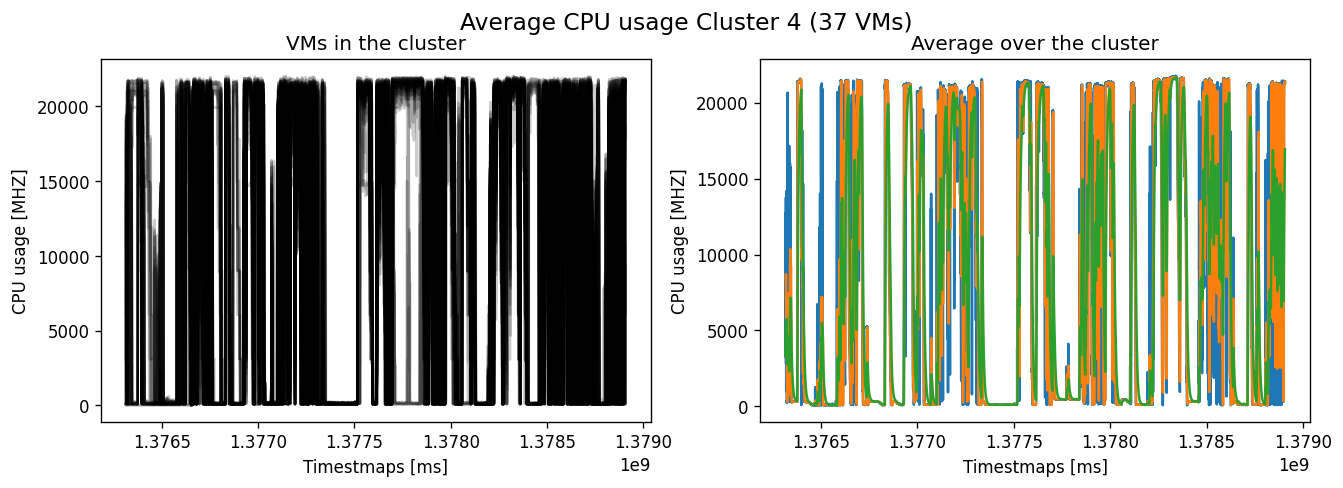
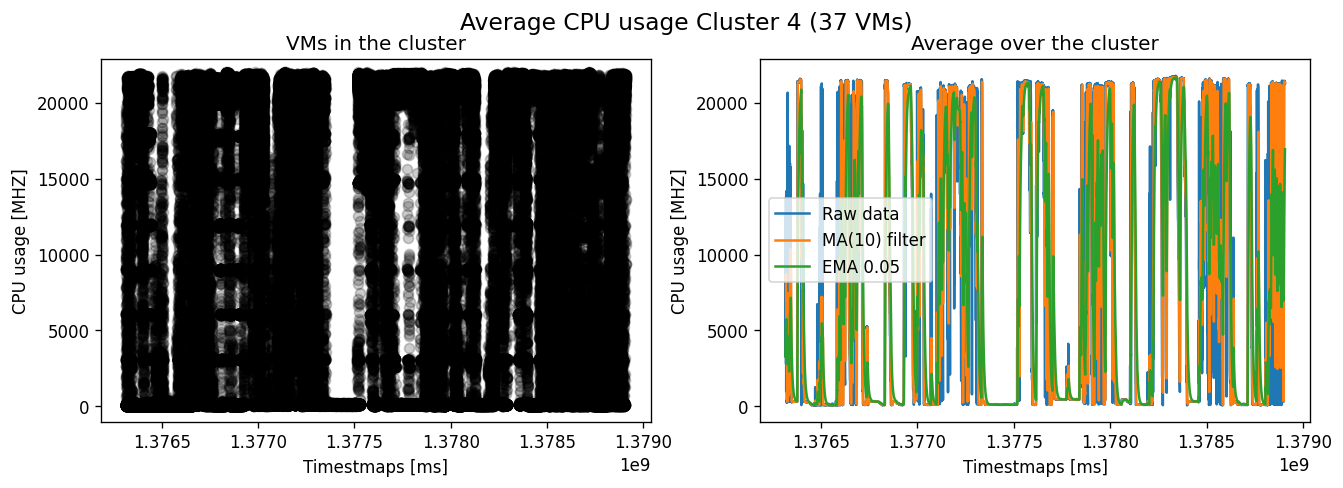
Add requirements.txt & generate new figures for clustering

Changed region(s): [[0.0305, 0.123, 0.4885, 0.8607], [0.58, 0.3996, 0.7022, 0.584]]

diff --git a/DataExploration/BitbrainsUtils.py b/DataExploration/BitbrainsUtils.py
@@ -160,7 +160,7 @@ def plot_clusters(data, labels, clusters, n_clusters, shared_axis=False, legend=
             Left: Overlapped VMs
             Right: Average features per cluster of VMs
     """
-
+    # TODO: check implentation of shared axis
     if n_clusters is None: n_clusters = len(np.unique(labels))
     for cluster_num in range(n_clusters):
         # List of VMs of this cluster
@@ -168,28 +168,13 @@ def plot_clusters(data, labels, clusters, n_clusters, shared_axis=False, legend=
         fig = plt.figure(figsize=figsize, dpi=dpi)
         title_fig = title + ' Cluster {} ({} VMs)'.format(cluster_num, len(VMs_cluster))
         if title is not None: fig.suptitle(title_fig, fontsize=14)
-        # Left figure
-        if clusters is not None:
-            ax1 = plt.subplot(1, 2, 1)
-        for VM in VMs_cluster:
-            plt.plot(VM, "k-", alpha=.2)
-        if legend: plt.legend()
-        if xlim is not None: plt.xlim(xlim)
-        if ylim is not None: plt.ylim(ylim)
-        if xlabel is not None: plt.xlabel(xlabel)
-        if ylabel is not None: plt.ylabel(ylabel)
-        if xticks is not None: plt.xticks(xticks)
-        plt.title('VMs in the cluster')
         # Right figure
         if clusters is not None:
-            if shared_axis:
-                plt.subplot(1, 2, 2, sharey=ax1, visible=True)
-            else:
-                plt.subplot(1, 2, 2)
+            ax1 = plt.subplot(1, 2, 2)
             cluster = clusters[cluster_num]
             plot_timeSeries(cluster.iloc[:, 0],
                             title='Average over the cluster',
-                            legend=legend,
+                            legend=True,
                             xlabel=xlabel,
                             ylabel=ylabel,
                             xlim=xlim,
@@ -199,6 +184,22 @@ def plot_clusters(data, labels, clusters, n_clusters, shared_axis=False, legend=
                             dpi=dpi,
                             savefig=None,
                             show=False)
+        # Left figure
+        if clusters is not None:
+            if shared_axis:
+                plt.subplot(1, 2, 1, sharey=ax1, visible=True)
+            else:
+                plt.subplot(1, 2, 1)
+        for VM in VMs_cluster:
+            plt.plot(VM, "k-", alpha=.2)
+        if legend: plt.legend()
+        if xlim is not None: plt.xlim(xlim)
+        if ylim is not None: plt.ylim(ylim)
+        if xlabel is not None: plt.xlabel(xlabel)
+        if ylabel is not None: plt.ylabel(ylabel)
+        if xticks is not None: plt.xticks(xticks)
+        plt.title('VMs in the cluster')
+
         if savefig is not None:
             save_path = os.path.join(FIGURES_PATH, savefig, 'Cluster{}'.format(cluster_num))
             plt.savefig(save_path, bbox_inches='tight')
@@ -207,7 +208,7 @@ def plot_clusters(data, labels, clusters, n_clusters, shared_axis=False, legend=
             plt.show()
 
 
-def optimal_clusters(features: List[str], models_path: str, length:int = 500):
+def optimal_clusters(features: List[str], models_path: str, length: int = 500, fast_validation: bool = True):
     # Load all VMs (list of VMs)
     VMs = load_all_VMs()
     print('Load VM: Completed')
@@ -236,11 +237,18 @@ def optimal_clusters(features: List[str], models_path: str, length:int = 500):
         # Predict labels
         labels = kmeans_model.predict(VMs_fs_short_ts)
         # Silhouette coefficient
-        sil_scores.append(silhouette_score(VMs_fs_ts,
-                                           labels,
-                                           metric="dtw",
-                                           n_jobs=-1,
-                                           verbose=True))
+        if fast_validation is True:
+            sil_scores.append(silhouette_score(VMs_fs_short_ts,
+                                               labels,
+                                               metric="dtw",
+                                               n_jobs=-1,
+                                               verbose=True))
+        else:
+            sil_scores.append(silhouette_score(VMs_fs_ts,
+                                               labels,
+                                               metric="dtw",
+                                               n_jobs=-1,
+                                               verbose=True))
     return sil_scores
 
 
